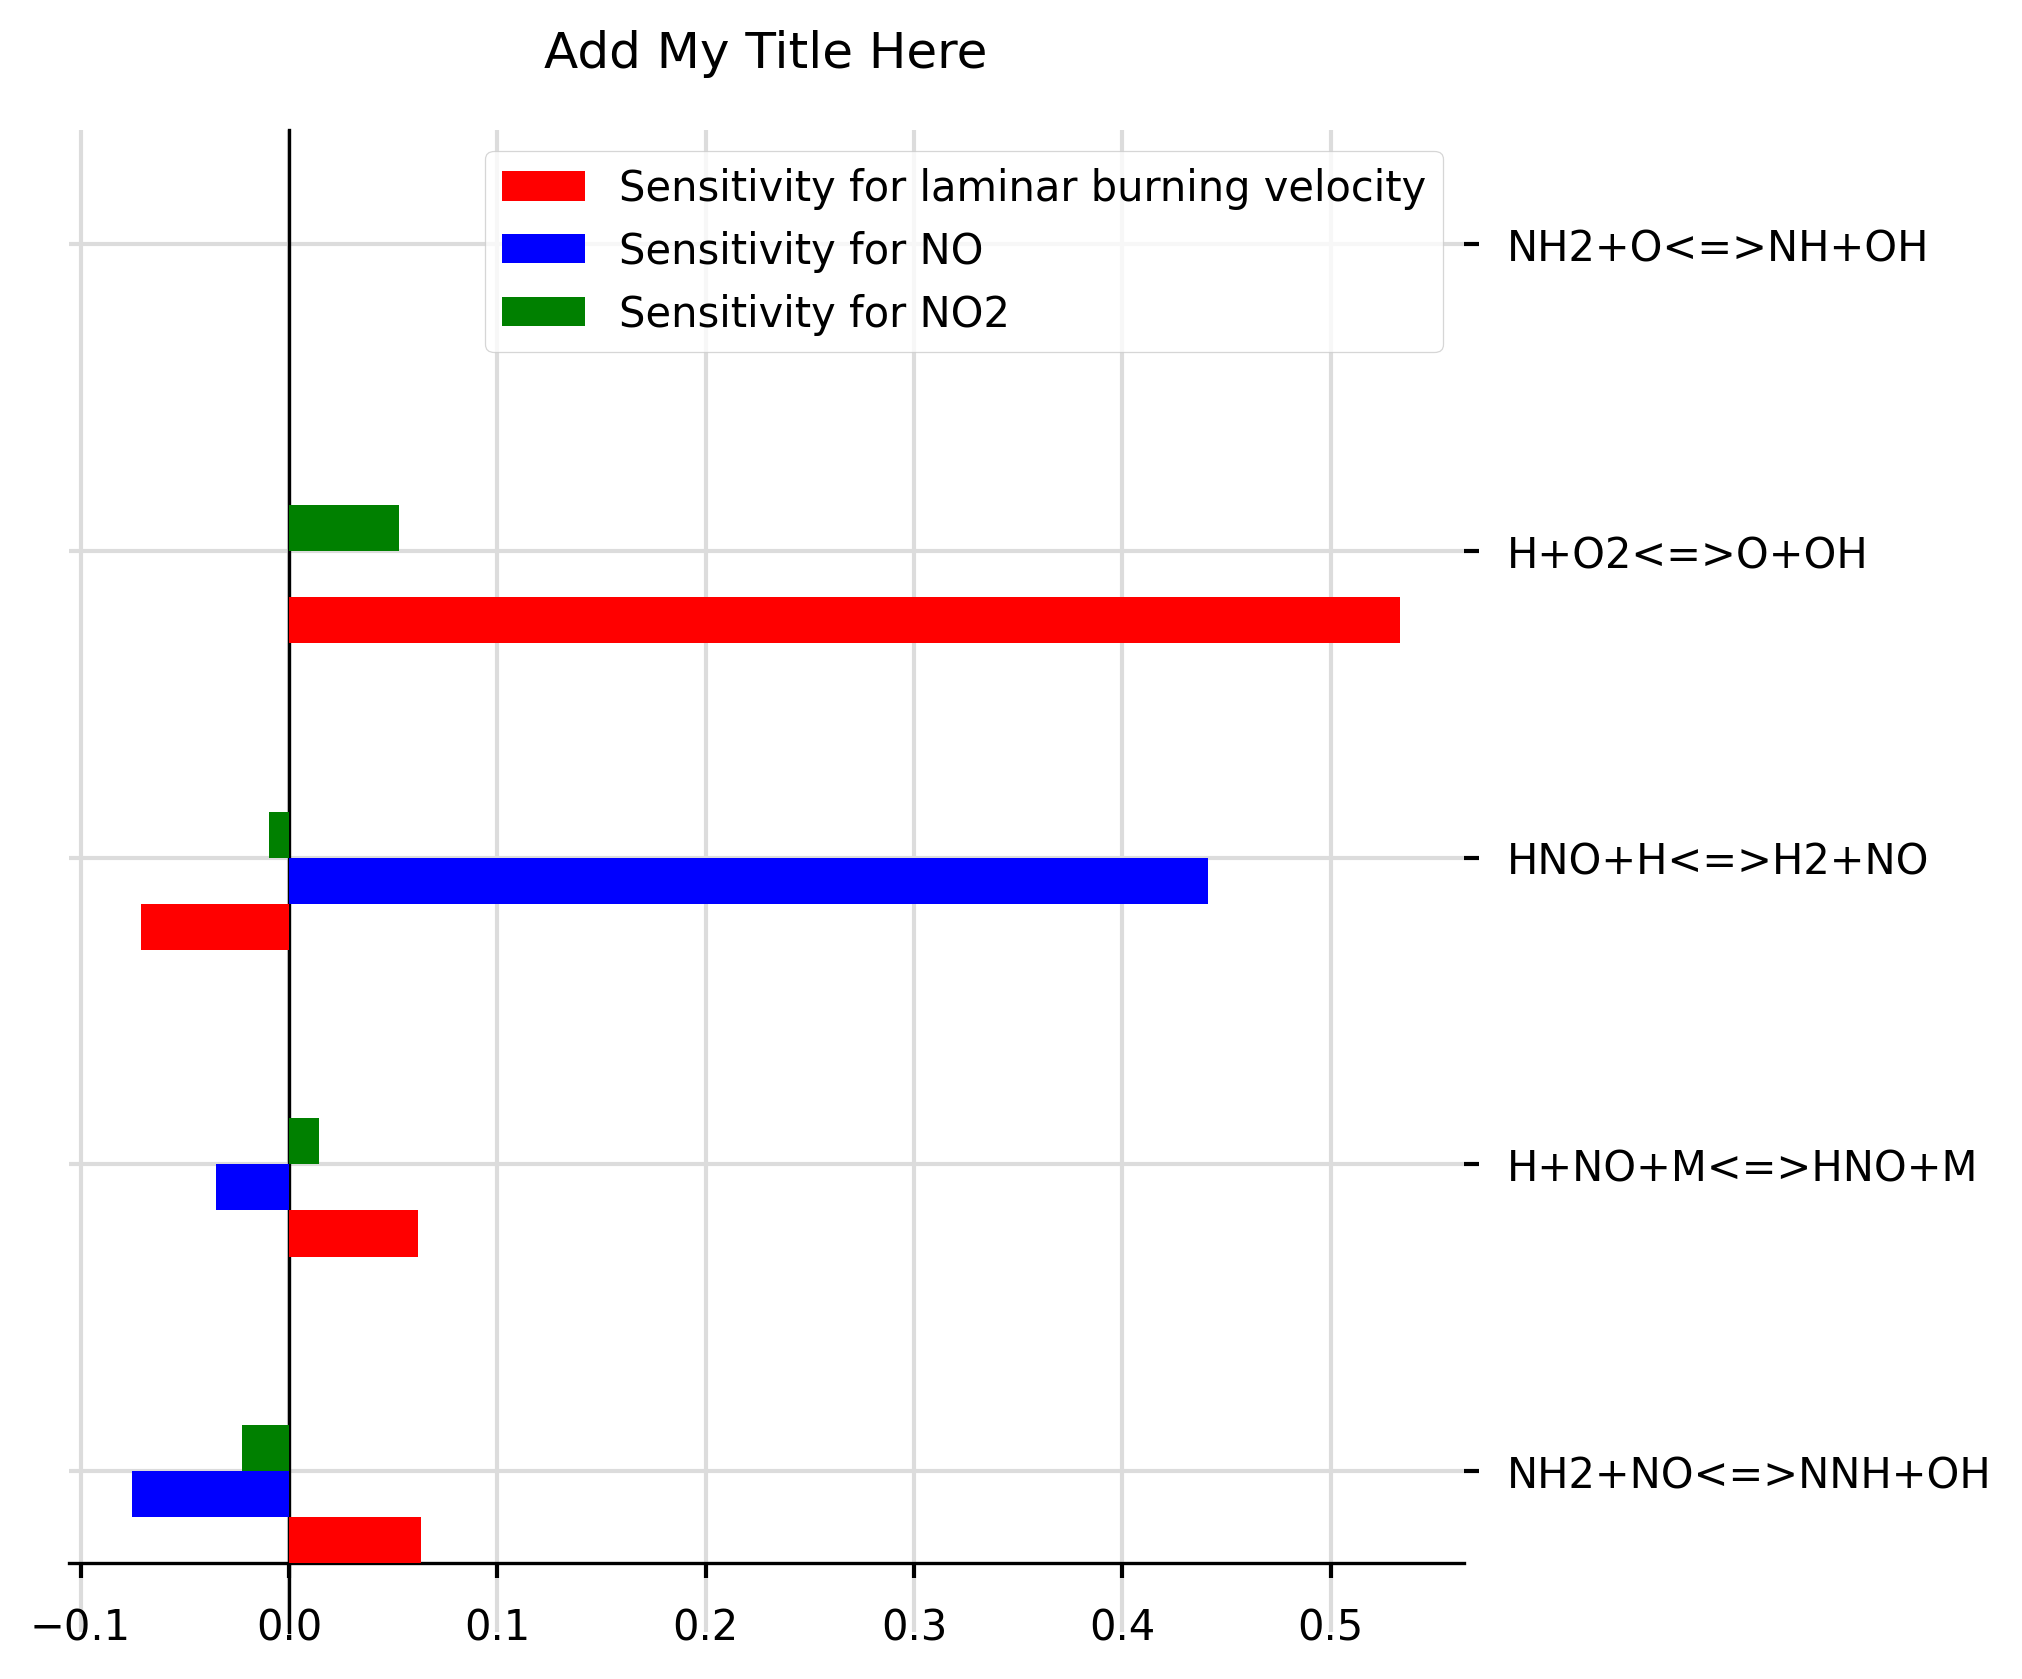
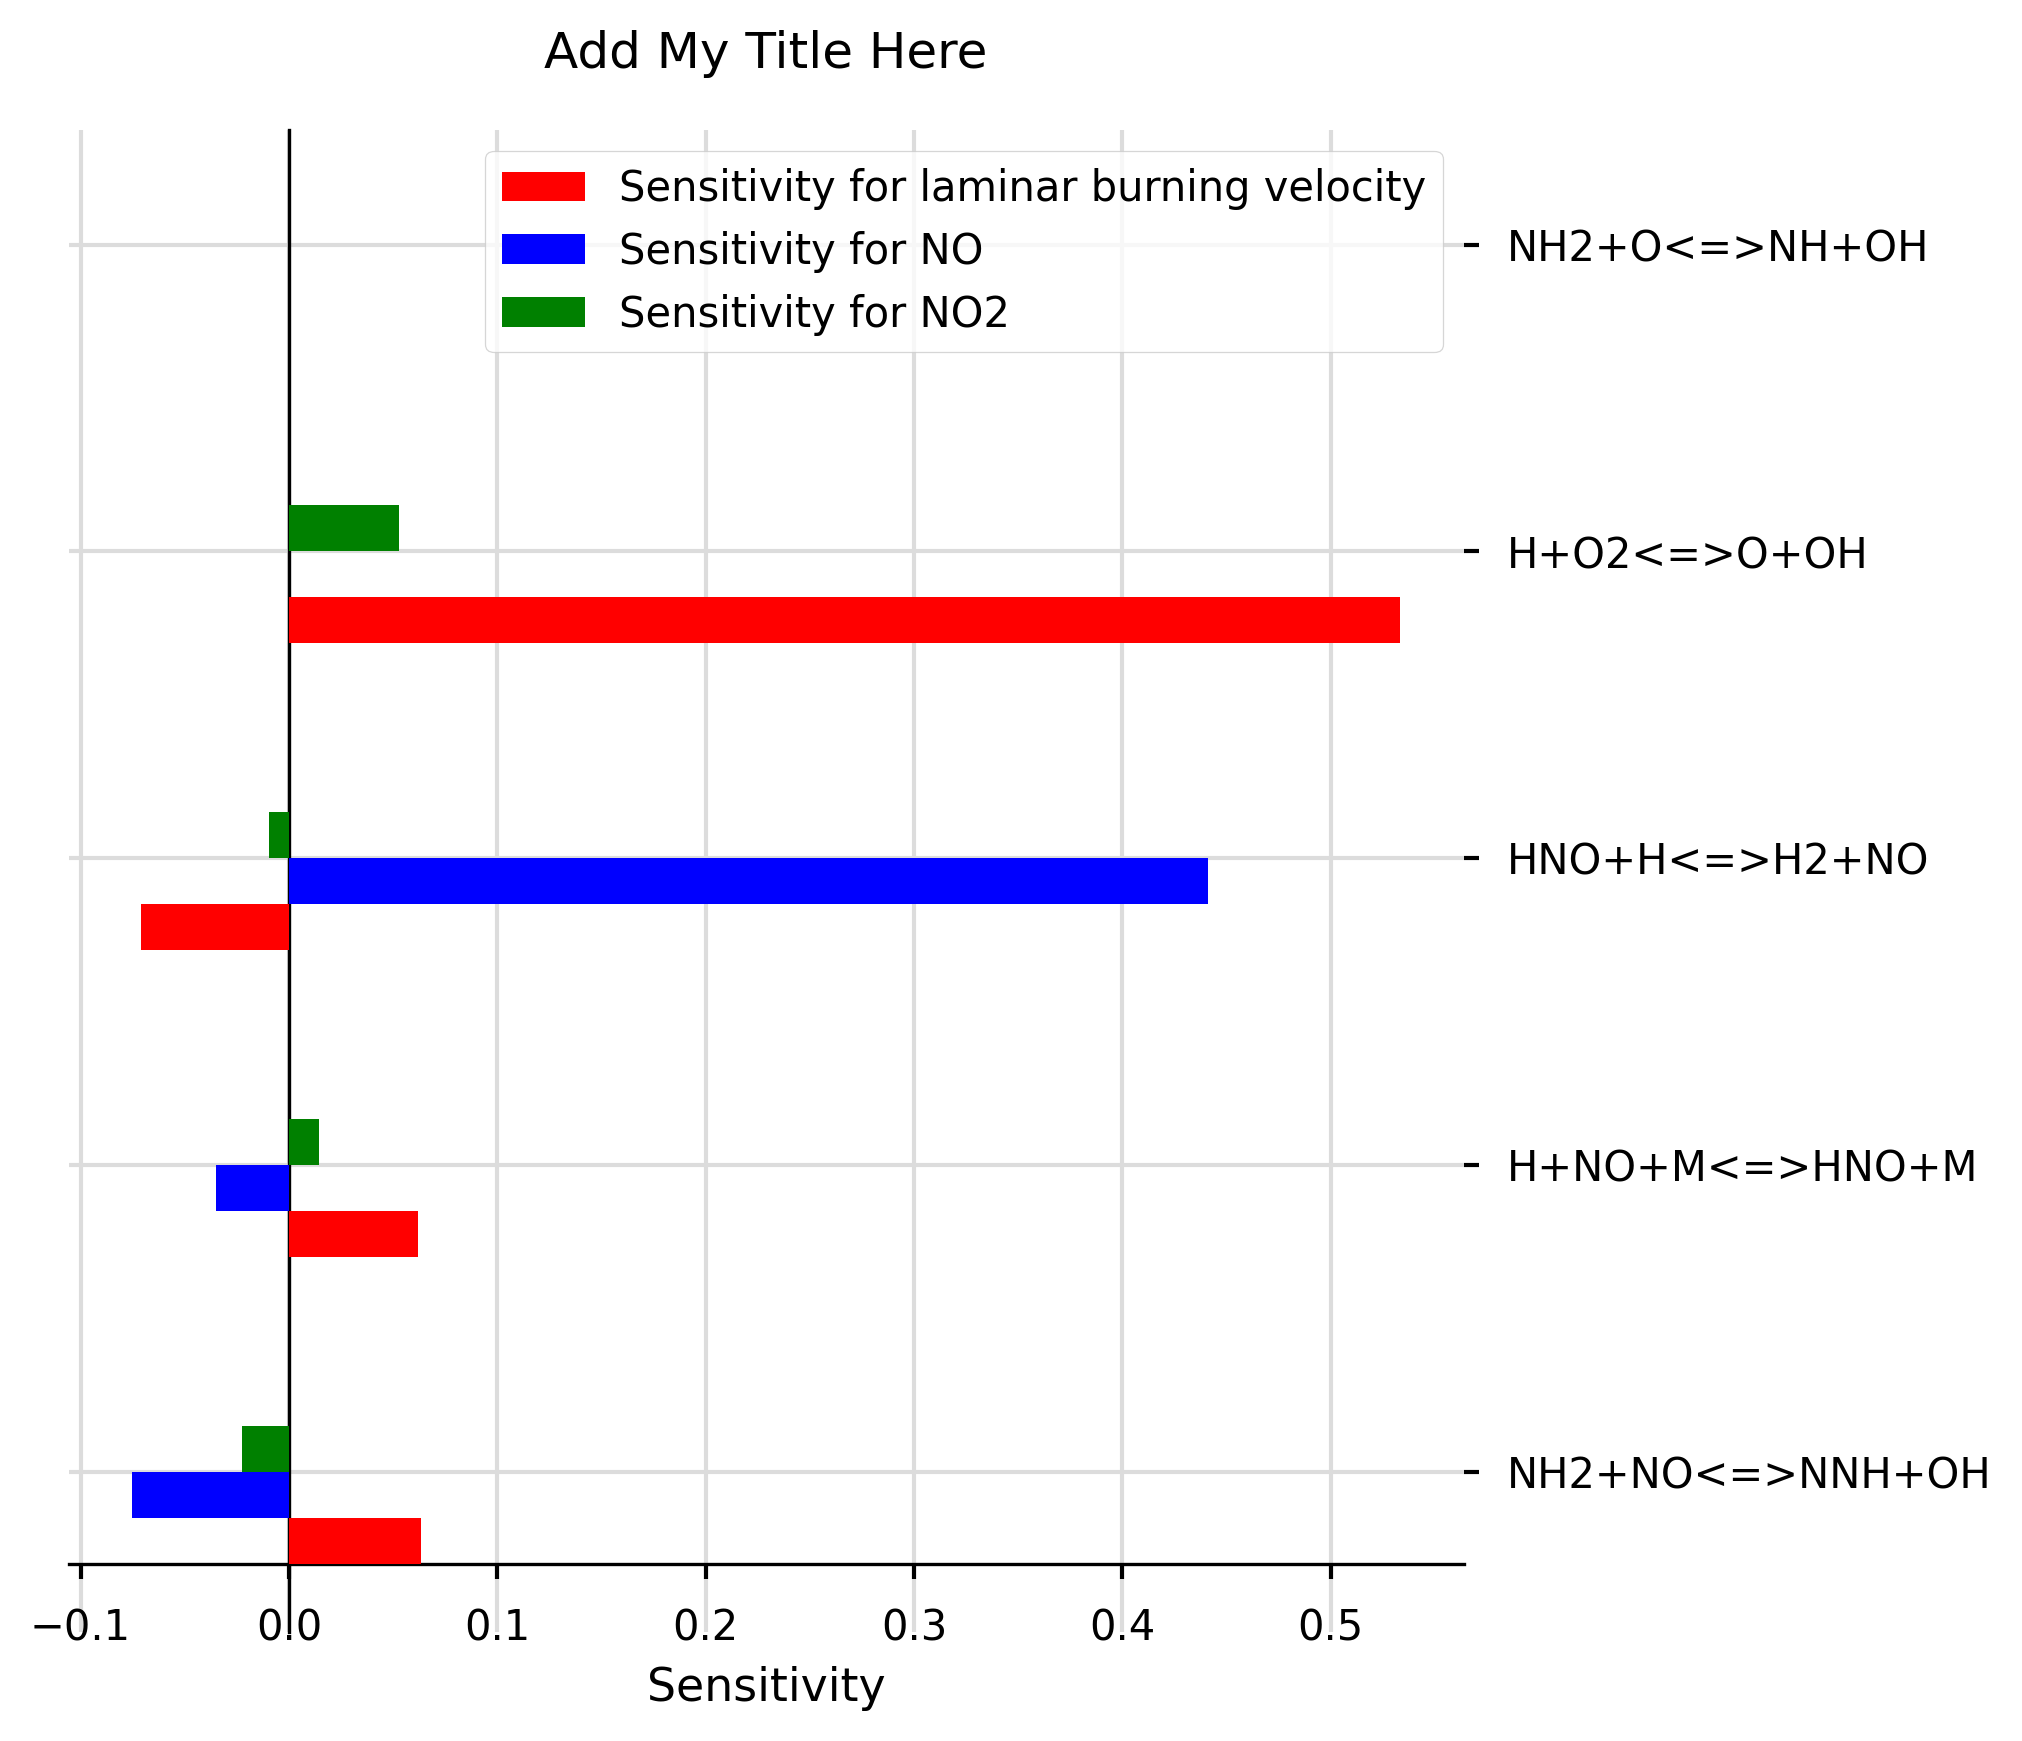
Add sample image for graphs with x axis

diff --git a/src/spreadsheet/create_graphs.py b/src/spreadsheet/create_graphs.py
@@ -18,13 +18,13 @@ class Graph():
         :param x_graph_size: default to almost square size 6 (increase number to change size ratio or increase resolution)
         :param y_graph_size: and default to almost square size 6.5 (increase number to change size ratio or increase resolution)
         """
-        self.fig = plt.figure(figsize=(x_graph_size, y_graph_size))
+        self.fig, self.ax = plt.subplots(figsize=(x_graph_size, y_graph_size))
 
         # get access to axies functions:
-        self.ax = self.fig.gca()
+
 
         # set format variables and format the figure:
-        self.x_axis_label = x_axis_label
+        plt.xlabel(x_axis_label)
         plt.title(title, pad=15, figure=self.fig)
 
     def find_col_headers(self, df, eq_list, gas=None):
